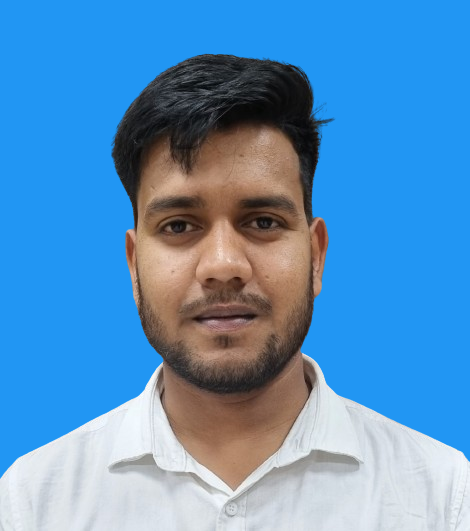
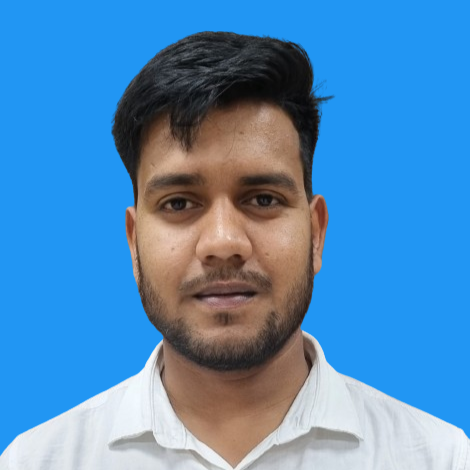
profile image modified

Changed region(s): [[0.0, 0.3872, 1.0, 1.0], [0.2383, 0.0596, 0.7149, 0.3574], [0.1489, 0.9532, 0.2085, 1.0]]

diff --git a/src/styles/About.module.css b/src/styles/About.module.css
@@ -11,8 +11,9 @@
 }
 .img{
     height: 100%;
-    border-radius: 10px;
+    border-radius: 50%;
     transition: transform 0.6s ease-in-out;
+    box-shadow: rgba(100, 100, 111, 0.2) 0px 7px 29px 0px;
 }
 .img:hover{
     transform: scale(1.2);
